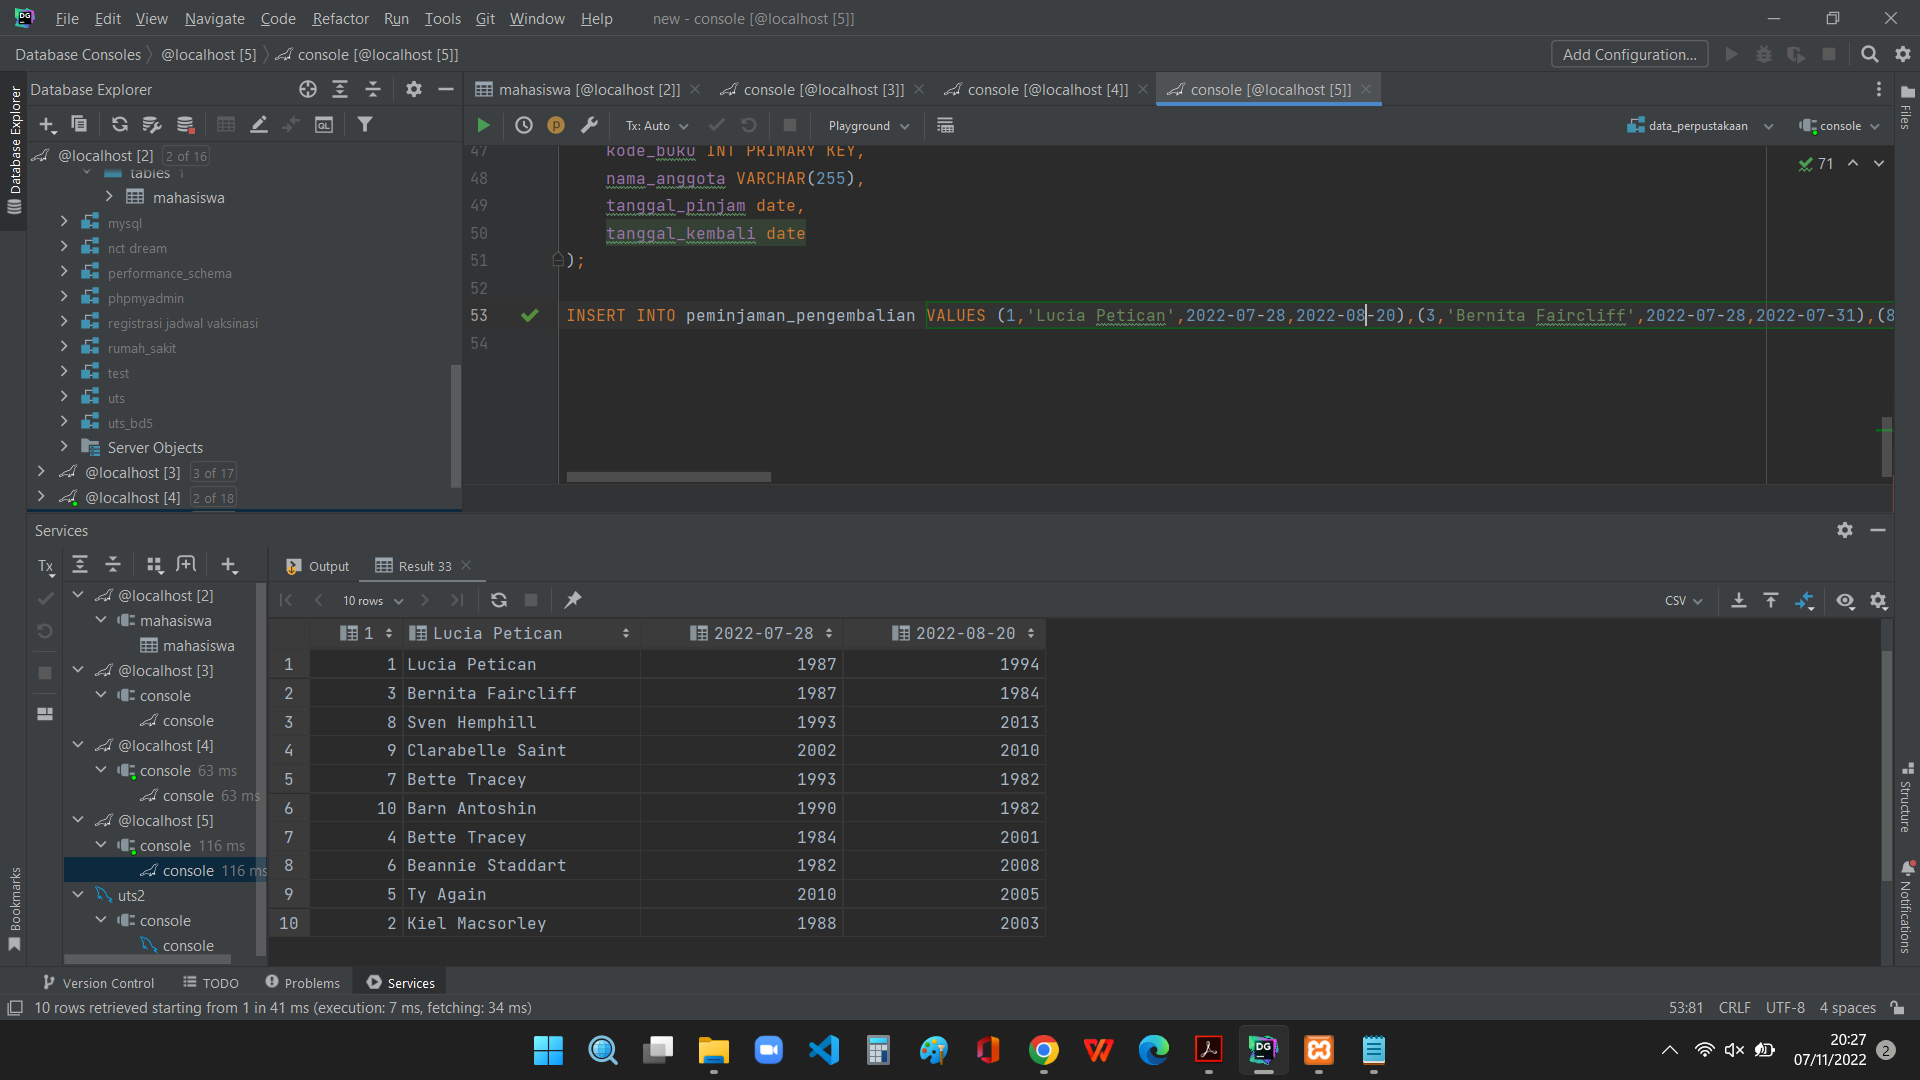
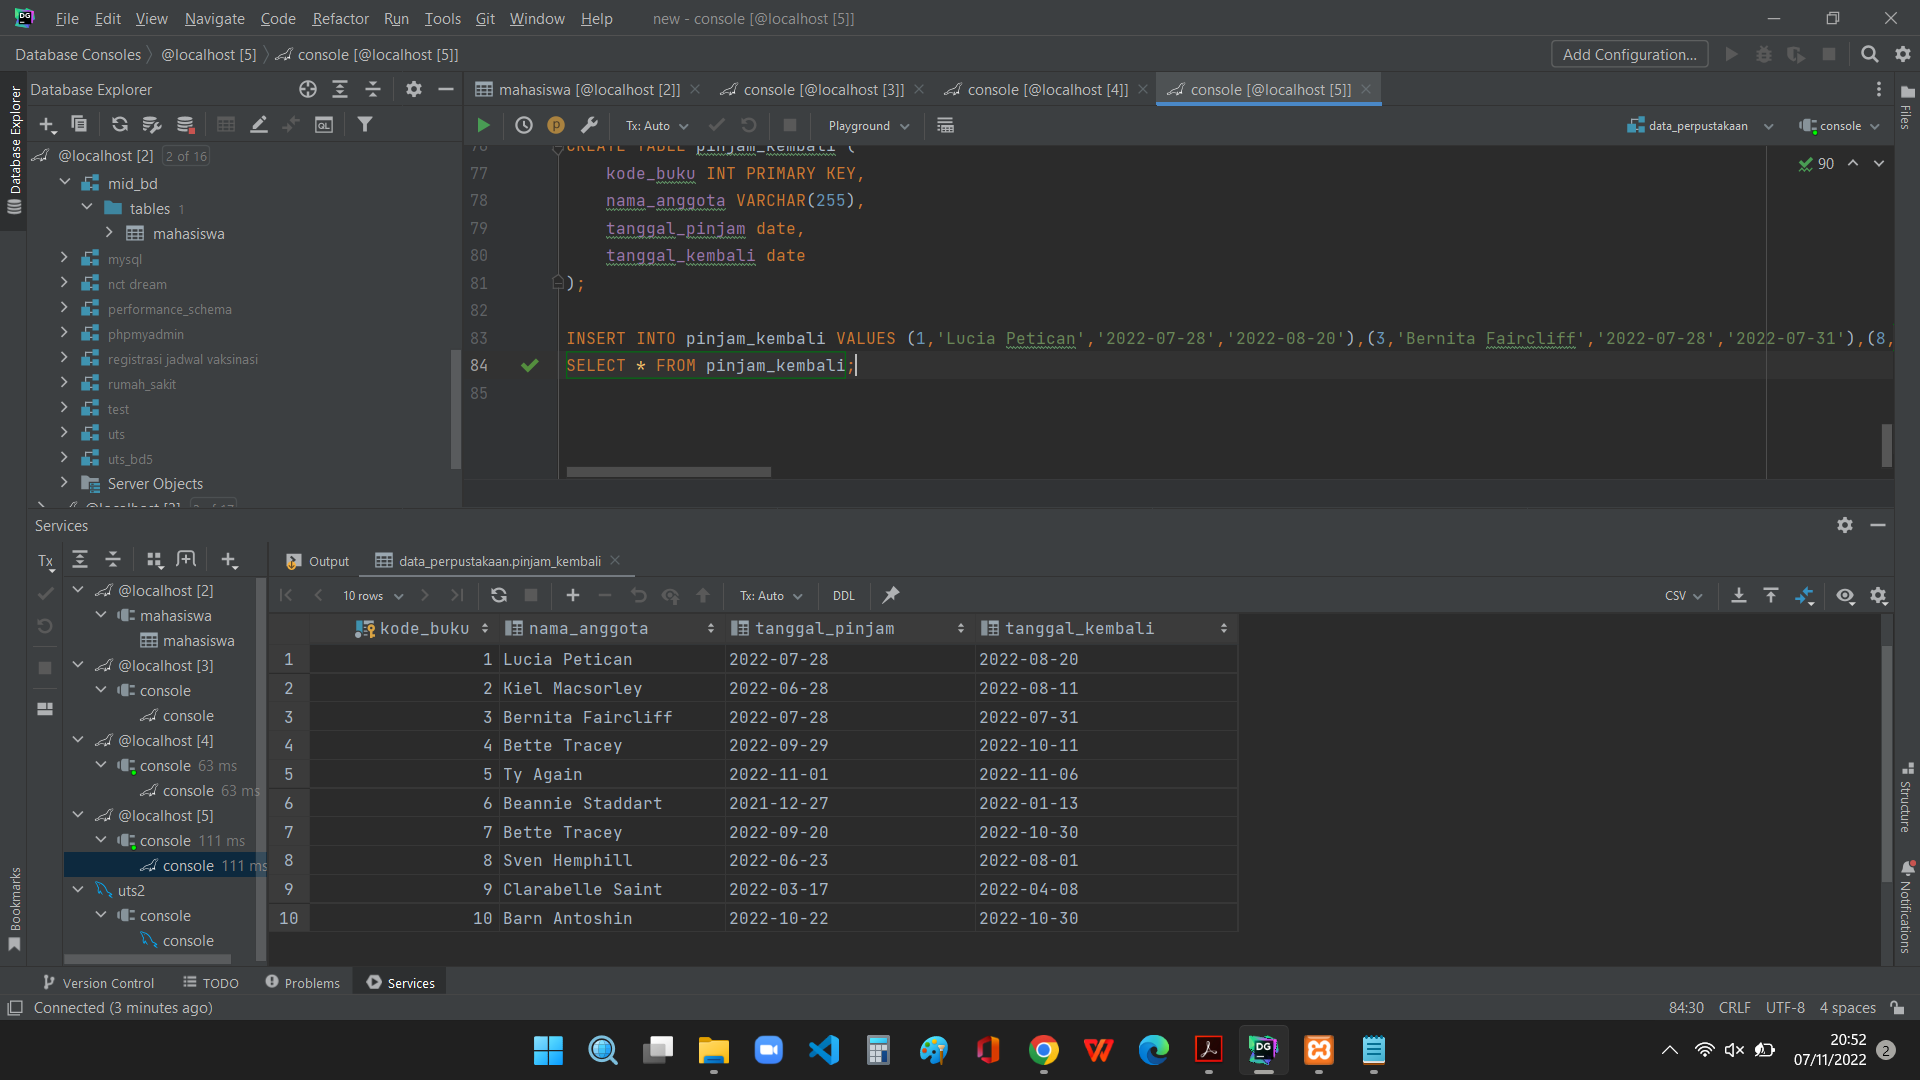
Add files via upload

diff --git a/UTS SOAL NO 1 8af906b7dbcf4abcb4c9ff03326a5105.md b/UTS SOAL NO 1 8af906b7dbcf4abcb4c9ff03326a5105.md
@@ -8,7 +8,7 @@
 
 ![Untitled](UTS%20SOAL%20NO%201%208af906b7dbcf4abcb4c9ff03326a5105/Untitled%201.png)
 
-**TABEL PEMINJAMAN-PENGEMBALIAN**
+**TABEL PINJAM-KEMBALI**
 
 ![Untitled](UTS%20SOAL%20NO%201%208af906b7dbcf4abcb4c9ff03326a5105/Untitled%202.png)
 
